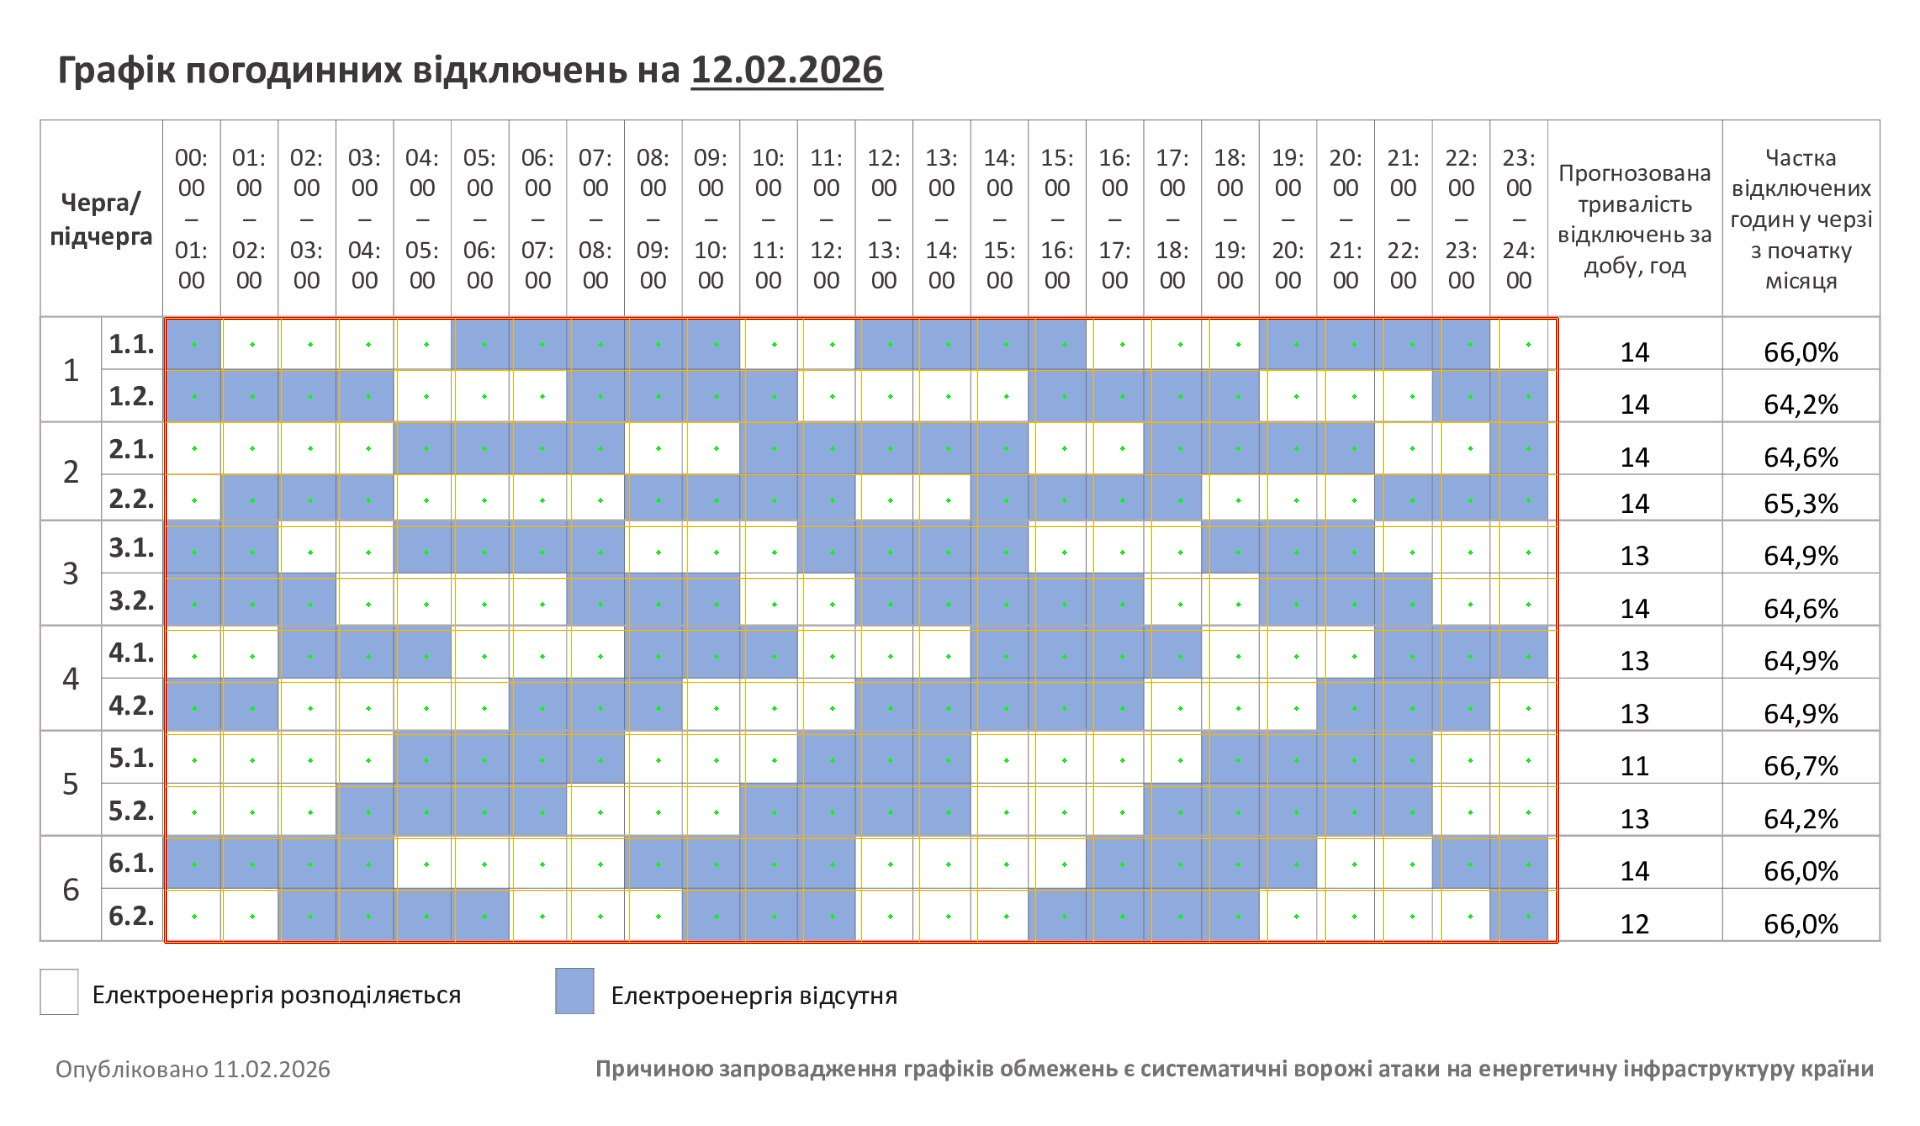
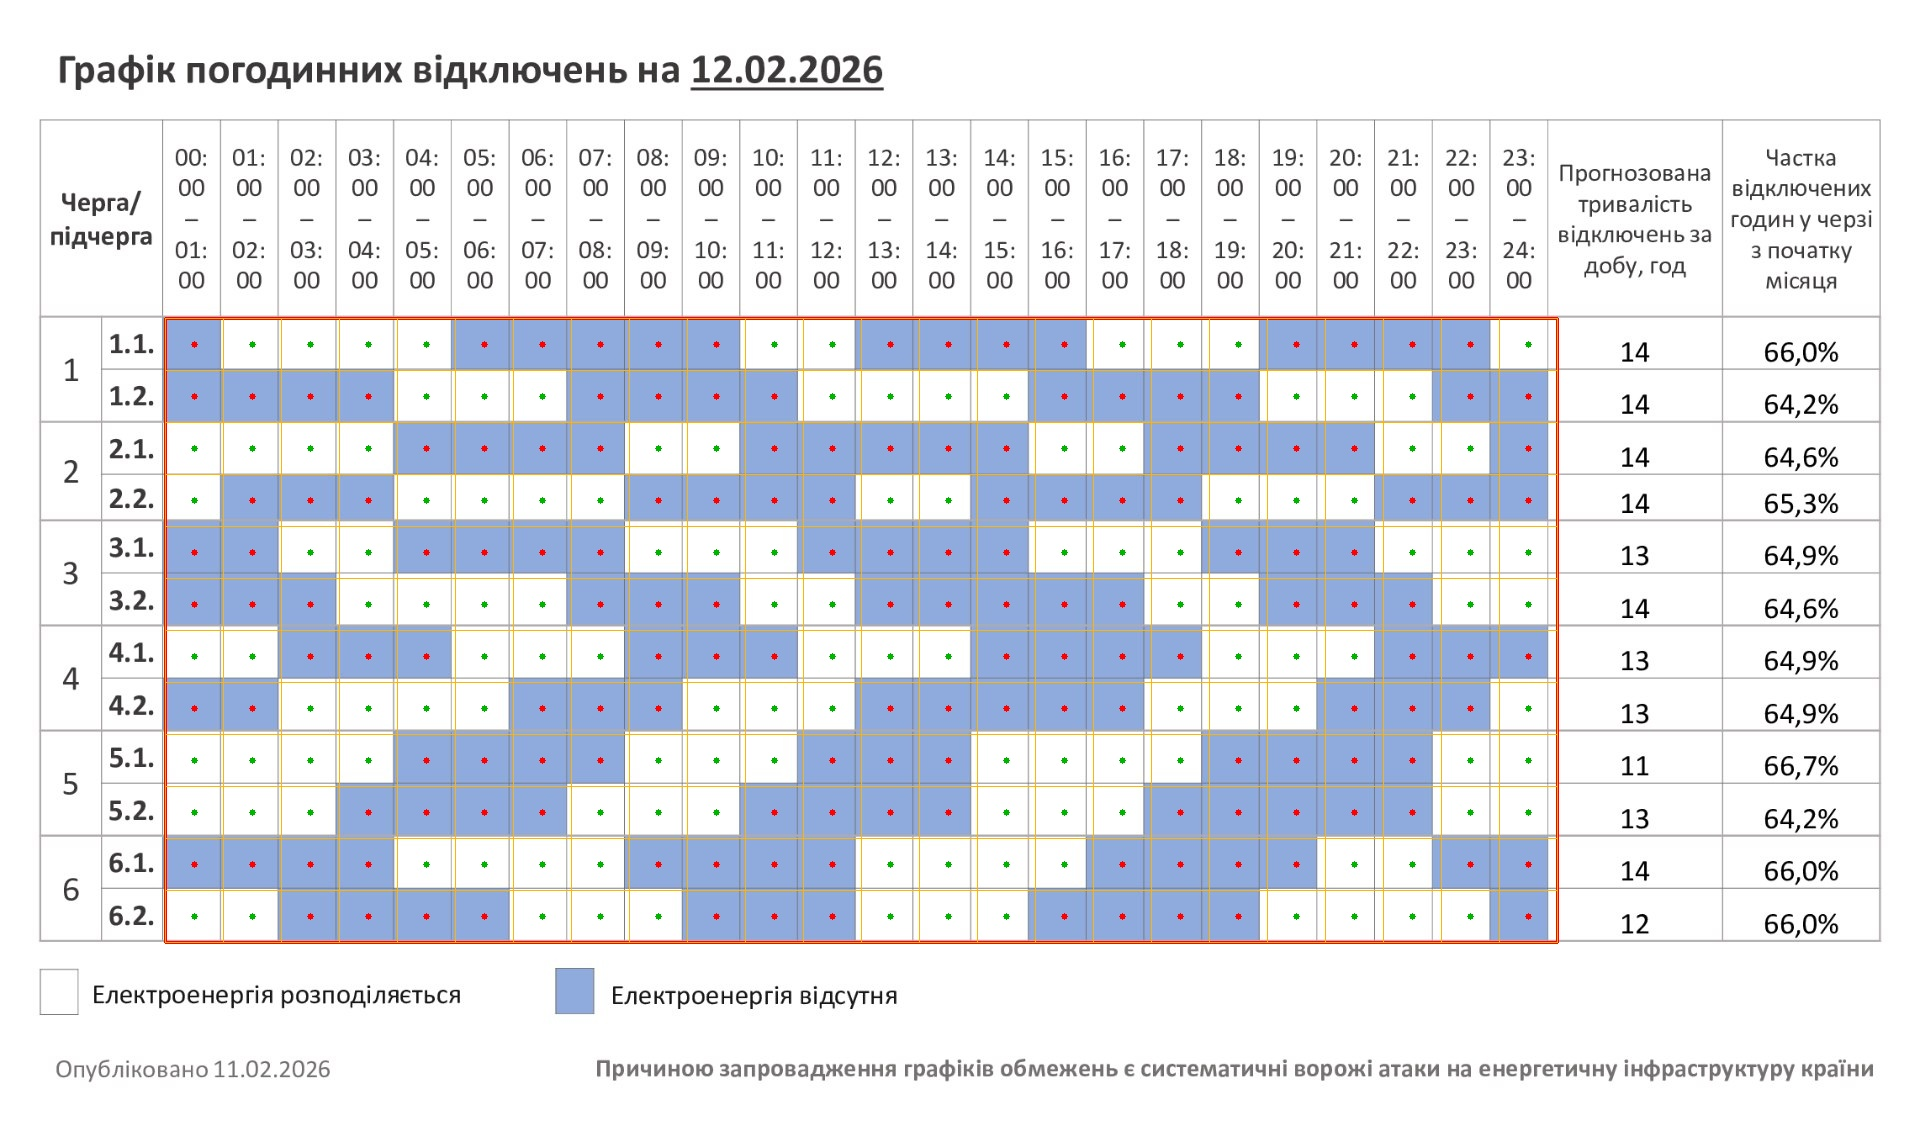
regenereate report

diff --git a/electro_parse.py b/electro_parse.py
@@ -286,41 +286,16 @@ def _draw_debug_overlay(
     output_path: Path,
 ) -> None:
     debug_image = image.copy()
-    overlay = debug_image.copy()
     left = geometry.matrix_left
     top = geometry.matrix_top
     right = left + geometry.column_count * geometry.cell_width
     bottom = top + geometry.row_count * geometry.cell_height
 
-    status_colors = {
-        "off": (40, 40, 220),
-        "maybe_off": (0, 200, 255),
-        "on": (60, 180, 75),
+    point_colors = {
+        "off": (0, 0, 255),
+        "maybe_off": (255, 0, 0),
+        "on": (0, 180, 0),
     }
-
-    for row in range(geometry.row_count):
-        for column in range(geometry.column_count):
-            color = tuple(int(channel) for channel in np.uint8(cell_colors[row][column]).tolist())
-            if color in off_colors:
-                status = "off"
-            elif color in maybe_colors:
-                status = "maybe_off"
-            else:
-                status = "on"
-
-            cell_left = left + column * geometry.cell_width
-            cell_right = left + (column + 1) * geometry.cell_width
-            cell_top = top + row * geometry.cell_height
-            cell_bottom = top + (row + 1) * geometry.cell_height
-            cv2.rectangle(
-                overlay,
-                (cell_left, cell_top),
-                (cell_right, cell_bottom),
-                status_colors[status],
-                -1,
-            )
-
-    cv2.addWeighted(overlay, 0.25, debug_image, 0.75, 0, debug_image)
     cv2.rectangle(debug_image, (left, top), (right, bottom), (0, 0, 255), 2)
 
     for column in range(geometry.column_count + 1):
@@ -341,7 +316,14 @@ def _draw_debug_overlay(
             sample_bottom = top + (row + 1) * geometry.cell_height - y_padding
             cx = (sample_left + sample_right) // 2
             cy = (sample_top + sample_bottom) // 2
-            cv2.circle(debug_image, (cx, cy), 2, (0, 255, 0), -1)
+            color = tuple(int(channel) for channel in np.uint8(cell_colors[row][column]).tolist())
+            if color in off_colors:
+                status = "off"
+            elif color in maybe_colors:
+                status = "maybe_off"
+            else:
+                status = "on"
+            cv2.circle(debug_image, (cx, cy), 3, point_colors[status], -1)
 
     if not cv2.imwrite(str(output_path), debug_image):
         raise ValueError(f"Failed to write debug image: {output_path}")
